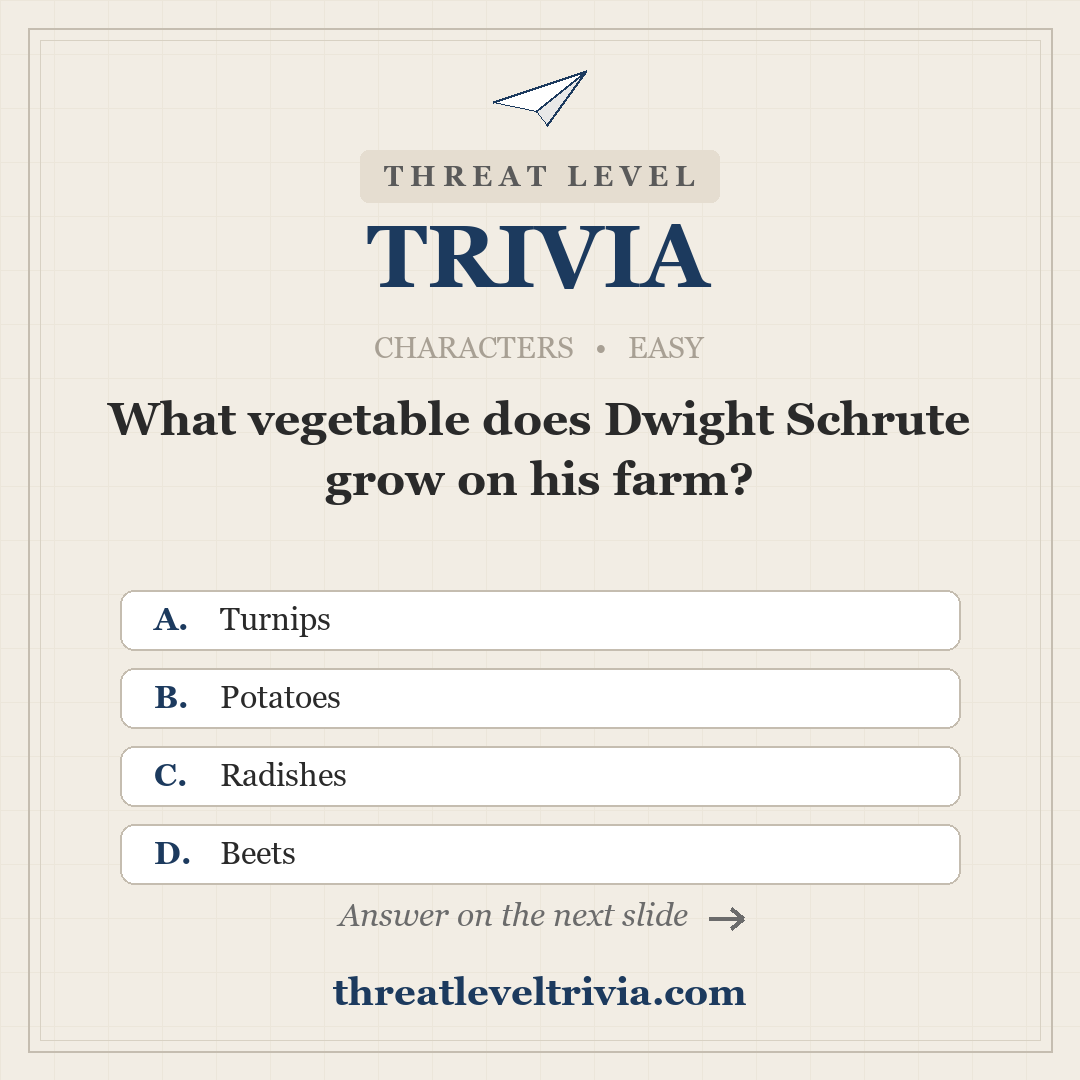
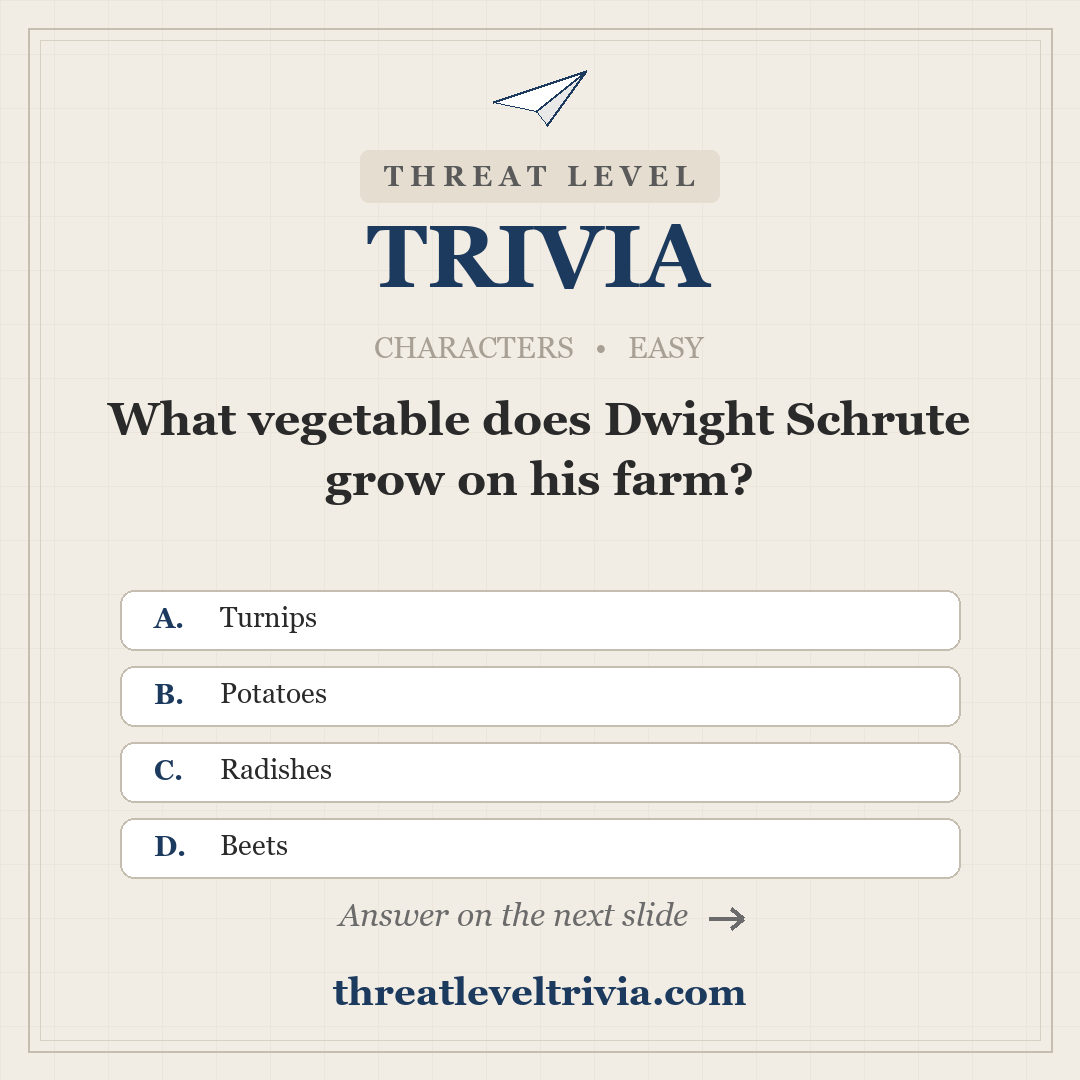
question of the day streak count update

Changed region(s): [[0.0917, 0.6111, 0.8861, 0.825], [0.2139, 0.55, 0.3056, 0.5806]]

diff --git a/js/daily.js b/js/daily.js
@@ -71,6 +71,7 @@ function _defaultDailyState() {
   return {
     current:          0,
     longest:          0,
+    totalCorrect:     0,    // lifetime count of correct Questions of the Day
     lastAnsweredDate: null,
     lastCorrectDate:  null,
     history:          [],   // [{ date, questionId, correct }]
@@ -81,9 +82,16 @@ function getDailyState() {
   try {
     const raw = JSON.parse(localStorage.getItem(DAILY_KEYS.state));
     if (raw && typeof raw === 'object') {
-      return Object.assign(_defaultDailyState(), raw, {
+      const state = Object.assign(_defaultDailyState(), raw, {
         history: Array.isArray(raw.history) ? raw.history : [],
       });
+      // Backfill totalCorrect for states saved before this field existed,
+      // so existing players keep their lifetime tally. Derived from history
+      // (capped at 365 entries, so this is a floor for very old accounts).
+      if (typeof raw.totalCorrect !== 'number') {
+        state.totalCorrect = state.history.filter(h => h.correct).length;
+      }
+      return state;
     }
   } catch {}
   return _defaultDailyState();
@@ -125,6 +133,7 @@ function _applyDailyResult(state, dateStr, questionId, correct) {
     }
     state.lastCorrectDate = dateStr;
     if (state.current > (state.longest || 0)) state.longest = state.current;
+    state.totalCorrect = (state.totalCorrect || 0) + 1;
   } else {
     state.current = 0;
   }
@@ -231,16 +240,32 @@ function _dailyOptionsFor(question) {
   return _dailyOptionsCache;
 }
 
-function _streakLine(state) {
+// Three-up stats strip: current streak, longest streak, and lifetime
+// total correct. Sits just under the navy header on both the prompt and
+// result cards so players always see their running totals.
+function _statsRow(state) {
   const cur = state.current || 0;
   const lon = state.longest || 0;
-  if (cur === 0 && lon === 0) {
-    return '<span class="daily-streak-empty">No streak yet. Today is a good day to start.</span>';
-  }
-  const flame = cur > 0 ? '<span class="daily-streak-flame" aria-hidden="true">&#128293;</span>' : '';
-  const curTxt = `<span class="daily-streak-num">${cur}</span> day${cur === 1 ? '' : 's'}`;
-  const lonTxt = lon > cur ? ` <span class="daily-streak-longest">(longest: ${lon})</span>` : '';
-  return `${flame}<span class="daily-streak-label">Current streak:</span> ${curTxt}${lonTxt}`;
+  const tot = state.totalCorrect || 0;
+  const flame = cur > 0
+    ? ' <span class="daily-stat-flame" aria-hidden="true">&#128293;</span>'
+    : '';
+  return `
+    <div class="daily-stats">
+      <div class="daily-stat">
+        <span class="daily-stat-num">${cur}${flame}</span>
+        <span class="daily-stat-label">Current streak</span>
+      </div>
+      <div class="daily-stat">
+        <span class="daily-stat-num">${lon}</span>
+        <span class="daily-stat-label">Longest streak</span>
+      </div>
+      <div class="daily-stat">
+        <span class="daily-stat-num">${tot}</span>
+        <span class="daily-stat-label">Total correct</span>
+      </div>
+    </div>
+  `;
 }
 
 function renderDailyQuestion() {
@@ -279,8 +304,8 @@ function _renderDailyPromptCard(root, question, state) {
     <div class="daily-card">
       <div class="daily-header">
         <span class="daily-eyebrow">Question of the Day</span>
-        <span class="daily-streak">${_streakLine(state)}</span>
       </div>
+      ${_statsRow(state)}
       <p class="daily-q-text">${escHtml(question.question)}</p>
       <div class="daily-options" id="daily-options">
         ${options.map((opt, i) => `
@@ -336,8 +361,8 @@ function _renderDailyResultCard(root, question, correct, state) {
     <div class="daily-card daily-card-result">
       <div class="daily-header">
         <span class="daily-eyebrow">Question of the Day</span>
-        <span class="daily-streak">${_streakLine(state)}</span>
       </div>
+      ${_statsRow(state)}
       <p class="daily-q-text daily-q-text-answered">${escHtml(question.question)}</p>
       <div class="daily-result-row">
         ${headline}

diff --git a/css/styles.css b/css/styles.css
@@ -348,22 +348,33 @@ body {
   letter-spacing: 0.18em;
   text-transform: uppercase;
 }
-.daily-streak {
-  font-size: 0.78rem;
-  color: #fff;
-  display: inline-flex;
-  align-items: center;
-  gap: 0.3rem;
-  white-space: nowrap;
+/* Three-up running-stats strip under the daily header */
+.daily-stats {
+  display: flex;
+  background: var(--navy-light);
 }
-.daily-streak-flame { font-size: 0.95rem; line-height: 1; }
-.daily-streak-label { color: rgba(255,255,255,0.75); font-weight: 600; }
-.daily-streak-num   { font-weight: 700; color: #fff; }
-.daily-streak-longest { color: rgba(255,255,255,0.65); font-size: 0.72rem; }
-.daily-streak-empty {
-  color: rgba(255,255,255,0.75);
-  font-style: italic;
-  font-size: 0.72rem;
+.daily-stat {
+  flex: 1;
+  text-align: center;
+  padding: 0.5rem 0.4rem;
+  display: flex;
+  flex-direction: column;
+  gap: 0.12rem;
+}
+.daily-stat + .daily-stat { border-left: 1px solid rgba(255, 255, 255, 0.14); }
+.daily-stat-num {
+  font-family: var(--font-serif);
+  font-size: 1.2rem;
+  font-weight: 700;
+  color: #fff;
+  line-height: 1.1;
+}
+.daily-stat-flame { font-size: 0.95rem; }
+.daily-stat-label {
+  font-size: 0.6rem;
+  letter-spacing: 0.07em;
+  text-transform: uppercase;
+  color: rgba(255, 255, 255, 0.72);
 }
 
 .daily-q-text {
@@ -466,7 +477,8 @@ body {
   .daily-options { grid-template-columns: 1fr; }
   .daily-q-text { font-size: 0.92rem; }
   .daily-header { padding: 0.5rem 0.75rem; }
-  .daily-streak { font-size: 0.72rem; }
+  .daily-stat-num { font-size: 1.05rem; }
+  .daily-stat-label { font-size: 0.56rem; }
 }
 
 /* Visually-hidden text: present for crawlers and screen readers, clipped

diff --git a/tools/ig_card_generator.py b/tools/ig_card_generator.py
@@ -195,19 +195,49 @@ def draw_question(draw, q, y_start):
 
 
 def draw_options(draw, options, y, bottom_limit, answer=None):
-    """Four A-D pills sized to fit between y and bottom_limit.
-    If answer is given, highlight it and dim the rest."""
-    gap = 18
-    pill_h = min(86, (bottom_limit - y - 3 * gap) // 4)
-    pill_h = max(pill_h, 56)
-    opt_size = 36 if pill_h >= 76 else 32
-    of = font(GEORGIA, opt_size)
-    lf = font(GEORGIA_BOLD, opt_size)
+    """Four A-D pills sized to fit between y and bottom_limit. Long options
+    wrap to multiple lines and each pill grows to fit its own text, so a
+    single very long answer never gets clipped. If answer is given,
+    highlight it and dim the rest."""
+    gap = 16
     pill_w = W - 240
     x0 = (W - pill_w) // 2
+    text_x = 100
+    # Reserve room on the right for the checkmark on the answer card.
+    right_pad = 78 if answer is not None else 44
+    avail = pill_w - text_x - right_pad
+    band = bottom_limit - y
+
+    # Pick the largest uniform font at which all four pills (with wrapping)
+    # stack inside the available vertical band. Wrapping is capped at 3 lines.
+    chosen_size, line_h, layout = 22, 27, None
+    for size in range(36, 21, -2):
+        f = font(GEORGIA, size)
+        lh = int(size * 1.22)
+        lay = []
+        for opt in options:
+            lines = wrap_to_width(draw, opt, f, avail)[:3]
+            pill_h = max(56, lh * len(lines) + 26)
+            lay.append((lines, pill_h))
+        total = sum(p[1] for p in lay) + gap * (len(options) - 1)
+        if total <= band:
+            chosen_size, line_h, layout = size, lh, lay
+            break
+    if layout is None:
+        # Smallest attempt still overflowed (extremely rare); use it anyway.
+        f = font(GEORGIA, 22)
+        line_h = int(22 * 1.22)
+        layout = [(wrap_to_width(draw, opt, f, avail)[:3],
+                   max(56, line_h * len(wrap_to_width(draw, opt, f, avail)[:3]) + 26))
+                  for opt in options]
+        chosen_size = 22
+
+    opt_f = font(GEORGIA, chosen_size)
+    lf = font(GEORGIA_BOLD, chosen_size)
     letters = "ABCD"
+    py = y
     for i, opt in enumerate(options):
-        py = y + i * (pill_h + gap)
+        lines, pill_h = layout[i]
         is_answer = answer is not None and opt == answer
         if is_answer:
             fill, ring, tcol, lcol = CORRECT_BG, CORRECT, CORRECT, CORRECT
@@ -220,15 +250,19 @@ def draw_options(draw, options, y, bottom_limit, answer=None):
             ring_w = 2
         draw.rounded_rectangle([x0, py, x0 + pill_w, py + pill_h], radius=14,
                                fill=fill, outline=ring, width=ring_w)
-        label = f"{letters[i]}."
-        draw.text((x0 + 34, py + (pill_h - opt_size) // 2 - 4), label, font=lf, fill=lcol)
-        opt_f = of if text_w(draw, opt, of) <= pill_w - 140 else font(GEORGIA, opt_size - 6)
-        draw.text((x0 + 100, py + (pill_h - opt_f.size) // 2 - 4), opt, font=opt_f, fill=tcol)
+        draw.text((x0 + 34, py + (pill_h - chosen_size) // 2 - 4),
+                  f"{letters[i]}.", font=lf, fill=lcol)
+        block_h = line_h * len(lines)
+        ty = py + (pill_h - block_h) // 2 - 2
+        for line in lines:
+            draw.text((x0 + text_x, ty), line, font=opt_f, fill=tcol)
+            ty += line_h
         if is_answer:
-            cx, cy = x0 + pill_w - 70, py + pill_h // 2
+            cx, cy = x0 + pill_w - 50, py + pill_h // 2
             draw.line([(cx - 12, cy + 2), (cx - 2, cy + 14)], fill=CORRECT, width=6)
             draw.line([(cx - 2, cy + 14), (cx + 18, cy - 14)], fill=CORRECT, width=6)
-    return y + 4 * pill_h + 3 * gap
+        py += pill_h + gap
+    return py - gap
 
 
 def shuffled_options(q, seed):
